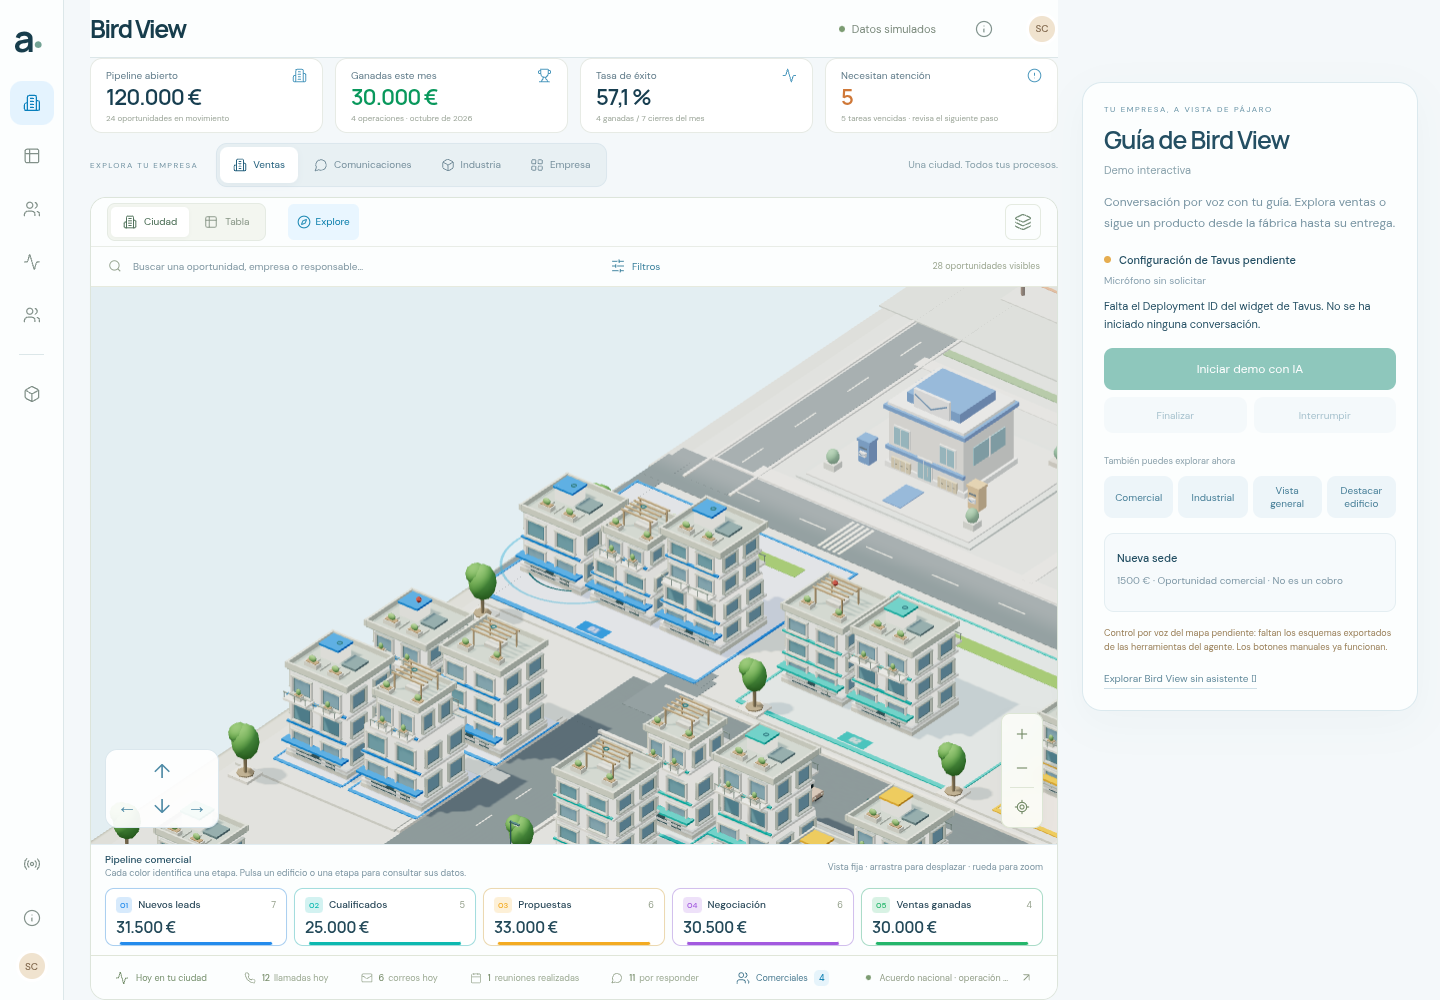
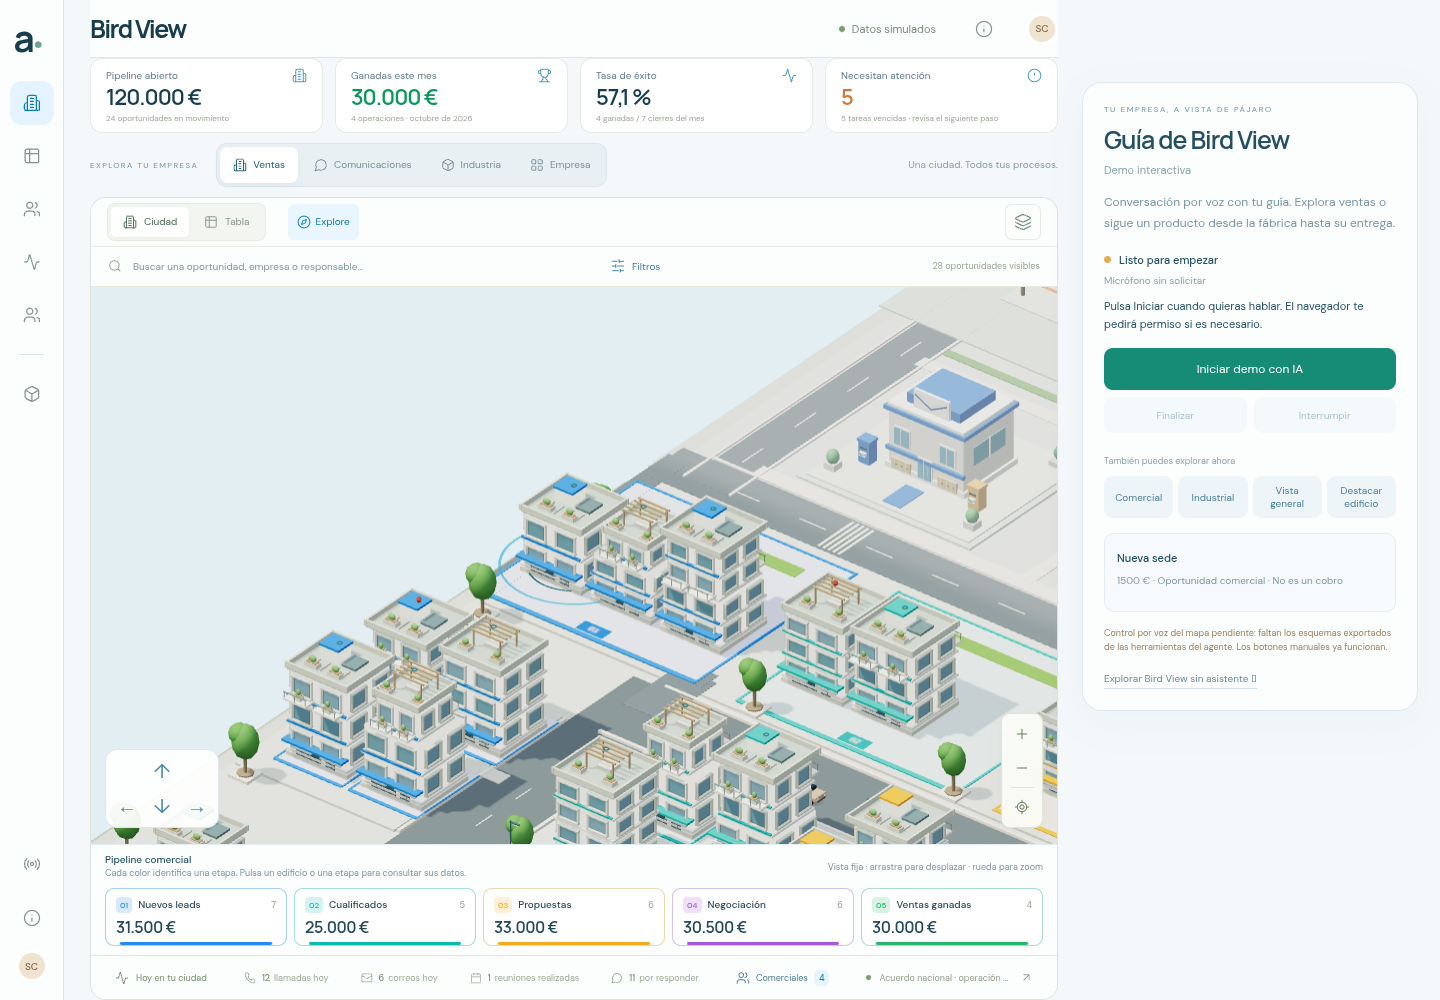
Configure the supplied Tavus deployment for production

Changed region(s): [[0.75, 0.248, 0.9688, 0.403]]

diff --git a/docs/demo/VALIDATION.md b/docs/demo/VALIDATION.md
@@ -1,8 +1,8 @@
 # Bird View · Demo Tavus
 
-Se completaron **195 pruebas automáticas** y **6 grupos de navegador** en la compilación final. La página `/demo` presenta la ciudad real y sus controles manuales. La conversación de Tavus sigue pendiente de un Deployment ID verificado y de los esquemas de las herramientas del agente existente.
+Se completaron **195 pruebas automáticas** y **6 grupos de navegador** en la compilación final. La página `/demo` presenta la ciudad real y sus controles manuales, con el Deployment ID público facilitado por el usuario ya configurado y el botón de inicio habilitado. Esta ejecución no inicia una conversación. Los esquemas de las herramientas del agente siguen pendientes.
 
-![Demo de Bird View sin conversación iniciada](captures/demo-desktop-unconfigured.png)
+![Demo de Bird View sin conversación iniciada](captures/demo-desktop-ready.png)
 
 ## Navegador
 
@@ -10,16 +10,16 @@ Se utilizó Chromium **154.0.8037.57**, en 1440 × 1000 y con móvil emulado de 
 
 Los seis grupos pasaron con **cero errores JavaScript no capturados**:
 
-1. Acceso directo por HTTP a `/demo`, con ciudad renderizada, aviso de configuración pendiente y controles de inicio, finalización e interrupción deshabilitados. No aparece una conexión ni un avatar ficticios.
+1. Acceso directo por HTTP a `/demo`, con ciudad renderizada, estado «Listo para empezar» e **Iniciar demo con IA** habilitado. Finalizar e Interrumpir permanecen deshabilitados; la sesión está en `idle` y el micrófono sin solicitar. El bundle recibido por HTTP contiene el Deployment ID público esperado. No se pulsa Iniciar ni aparece una conexión o avatar ficticios.
 2. Botón **Comercial**: encuadre real de `deal-001`, «Nueva sede», y halo visible. El panel muestra sus 1.500 € como oportunidad comercial y aclara que no es un cobro.
 3. Botón **Industrial**: encuadre y halo de fabricación. Las 1.320 unidades trazadas se mantienen; la interfaz identifica la ruta como estimada.
 4. Botón **Vista general**: regreso a toda la empresa. Los componentes del cuaternión de cámara conservan su orientación dentro de `0,00001` durante los tres encuadres.
 5. Ruta principal `/`: conserva el asistente V5 visible y la navegación a comunicaciones. No carga el módulo de la demo ni los SDK Tavus, no registra sus componentes y no solicita la configuración Tavus. Es una comprobación dirigida de regresión; no se repitió aquí toda la suite V5.
-6. Móvil de 390 px: guía y controles dentro del ancho disponible, sin desplazamiento horizontal; botón de inicio de 44 px de altura. El encuadre industrial funciona y el mapa completo puede verse mediante desplazamiento vertical.
+6. Móvil de 390 px: guía y controles dentro del ancho disponible, sin desplazamiento horizontal; botón de inicio habilitado y de 44 px de altura. El encuadre industrial funciona y el mapa completo puede verse mediante desplazamiento vertical.
 
 En cada navegación se comparan las instantáneas serializadas del CRM y de la industria: **no cambian los registros**. Los botones manuales actúan sobre el controlador de presentación, no se atribuyen a una conversación de IA.
 
-La suite instrumenta `getUserMedia`, `HTMLMediaElement.play` y la creación de `AudioContext`: las tres cuentas quedan a cero. No se monta ningún `tavus-widget` ni `tavus-embed`, no aparecen elementos de audio/vídeo y no se realizan peticiones a `tavusapi.com`, `tavus.io`, `tavus.com`, `tavus.dev` ni `daily.co`, incluidos sus subdominios. En `/demo` sí se importan los SDK oficiales y se registran ambos componentes, conforme a su instalación; registrar el componente no inicia una conversación. La ruta `/` no los registra ni descarga `app-W4suTnxR.js`, el módulo que los contiene.
+La suite instrumenta `getUserMedia`, `HTMLMediaElement.play` y la creación de `AudioContext`: las tres cuentas quedan a cero. No se monta ningún `tavus-widget` ni `tavus-embed`, no aparecen elementos de audio/vídeo y no se realizan peticiones a `tavusapi.com`, `tavus.io`, `tavus.com`, `tavus.dev` ni `daily.co`, incluidos sus subdominios. En `/demo` sí se importan los SDK oficiales y se registran ambos componentes, conforme a su instalación; registrar el componente no inicia una conversación. La ruta `/` no los registra ni descarga `app-ytn8nZM7.js`, el módulo que los contiene.
 
 ![Encuadre comercial y halo sobre la oportunidad](captures/demo-commercial-readonly-highlight.png)
 
@@ -27,21 +27,21 @@ La suite instrumenta `getUserMedia`, `HTMLMediaElement.play` y la creación de `
 
 La revisión inicial encontró un botón móvil de 42 px y un halo industrial oculto por la plataforma de la fábrica. Se corrigieron el tamaño táctil, la composición móvil y el perímetro/altura del halo antes de repetir los seis grupos completos. No se cuentan los intentos iniciales incompletos como grupos adicionales.
 
-[Móvil: guía y controles](captures/demo-mobile-unconfigured-industry.png) · [Móvil: mapa tras desplazarse](captures/demo-mobile-industrial-city.png) · [Ruta principal conservada](captures/normal-city-v5-preserved.png).
+[Móvil: guía y controles](captures/demo-mobile-ready-industry.png) · [Móvil: mapa tras desplazarse](captures/demo-mobile-industrial-city.png) · [Ruta principal conservada](captures/normal-city-v5-preserved.png).
 
-[Informe de navegador](browser-validation.json). Conserva los SHA-256 de los módulos JS y CSS realmente recibidos por HTTP, incluidos `app-W4suTnxR.js`, `app-IKnRg8DU.js` y `app-DMQpJPKC.css`. Los hashes de todas las fuentes incluidas coinciden al comenzar y terminar la ejecución final. Todos los assets registrados respondieron con HTTP 200.
+[Informe de navegador](browser-validation.json). Conserva los SHA-256 de los módulos JS y CSS realmente recibidos por HTTP, incluidos `app-ytn8nZM7.js`, `app-IKnRg8DU.js` y `app-DMQpJPKC.css`. Los hashes de todas las fuentes incluidas coinciden al comenzar y terminar la ejecución final, incluida `.env.production`; `.env.local` no se incluye en los hashes ni en el informe. Todos los assets registrados respondieron con HTTP 200. El informe registra el ID público esperado, comprueba su presencia en el bundle servido y deja constancia de `startButtonClicked: false`.
 
 ## Modelos, contratos y sesión
 
-`npm test` pasó **195/195 pruebas**, y la compilación de producción terminó correctamente. Incluye 12 pruebas nuevas del controlador de presentación, 18 de contratos/API y 18 del ciclo de sesión.
+`npm test` pasó sus 20 archivos, y la compilación de producción terminó correctamente. Se ejecutaron además los mismos archivos con `node --test --test-isolation=none`, que enumeró **195/195 casos**, sin fallos ni casos omitidos. Incluyen 12 pruebas del controlador de presentación, 18 de contratos/API y 18 del ciclo de sesión.
 
 Las pruebas del controlador verifican IDs existentes, cola acotada, serialización, cancelación, prioridad a la navegación manual, restauración y ausencia de escrituras CRM/ERP. Las de contratos validan esquemas, bindings explícitos, argumentos y límites; sus esquemas son **fixtures sintéticos de prueba**, no los del agente del usuario. Las de sesión usan un widget controlado para comprobar inicio, estado, errores, deduplicación de herramientas, interrupción y limpieza. No acreditan el comportamiento de un deployment real.
 
-La configuración del handler `/api/tavus-config` se comprueba con respuestas y variables de entorno controladas, incluida la ausencia de credenciales en su salida. El servidor estático `vite preview` de esta ejecución no ejecuta las funciones serverless: la página obtiene HTML de fallback en esa ruta, detecta que no es configuración JSON y conserva el estado pendiente. No se ha validado el endpoint publicado de Vercel desde el navegador.
+La configuración del handler `/api/tavus-config` se comprueba con respuestas y variables de entorno controladas, incluida la ausencia de credenciales en su salida. También se invocó el handler local con `--env-file=.env.local`: devolvió GET 200, el ID público exacto y contratos pendientes. El servidor estático `vite preview` de esta ejecución no ejecuta las funciones serverless: la página obtiene HTML de fallback en esa ruta, detecta que no es configuración JSON y utiliza el ID público compilado desde `.env.production`. No se ha validado el endpoint publicado de Vercel desde el navegador.
 
 ## Pendiente de conexión real
 
-No se ha proporcionado un Deployment ID verificado ni la exportación de las tres herramientas del agente existente. El PAL ID facilitado por el usuario no se considera una prueba de publicación del widget.
+El usuario proporcionó el snippet del widget con Deployment ID `d7770b89-ab37-4445-b065-2a5150e2e4cb`. La comprobación pública de `/init` devolvió HTTP 200, «Guía de Bird View Widget» e `is_available: true`; confirma la disponibilidad de la publicación, no una conversación ni sus dominios permitidos. La exportación de las tres herramientas del agente existente sigue pendiente; véase [configuración y lectura pública del deployment](SETUP.md).
 
 No se han verificado una conversación real, audio bidireccional, saludo, interrupciones de voz, permisos en un dispositivo físico ni llamadas reales de herramientas del agente. Las capturas no contienen un avatar, voz o conexión simulados. Los controles por voz seguirán pendientes hasta revisar los esquemas reales; véase [contratos de herramientas](TOOL_CONTRACTS.md).
 
@@ -59,4 +59,10 @@ En otra terminal, con una única sesión de navegador:
 npm run test:demo
 ```
 
-`BASE_URL`, `CHROMIUM_PATH` y `CAPTURE_DIR` permiten cambiar el servidor, Chromium y el destino de las evidencias. La comprobación de configuración ausente requiere ejecutar la compilación sin `VITE_TAVUS_DEPLOYMENT_ID` ni un Deployment ID disponible en el servidor. No se debe utilizar esta suite para iniciar una llamada de pago en un deployment configurado.
+`BASE_URL`, `CHROMIUM_PATH` y `CAPTURE_DIR` permiten cambiar el servidor, Chromium y el destino de las evidencias. Por defecto, la suite resuelve el ID público esperado con `loadEnv("production", process.cwd(), "VITE_")`. `EXPECT_TAVUS_DEPLOYMENT_ID` permite sustituirlo; una cadena explícitamente vacía selecciona las comprobaciones de configuración ausente. Para ese modo hay que servir una compilación sin ID y un servidor que tampoco lo publique. La suite nunca pulsa Iniciar ni crea automáticamente una conversación.
+
+```sh
+# Sólo para comprobar una compilación sin configuración:
+VITE_TAVUS_DEPLOYMENT_ID='' npm run build
+EXPECT_TAVUS_DEPLOYMENT_ID='' npm run test:demo
+```

diff --git a/docs/demo/SETUP.md b/docs/demo/SETUP.md
@@ -10,9 +10,11 @@ En [PAL Maker](https://maker.tavus.io/dev), abre la sección de deployments y lo
 <tavus-widget deployment-id="VALOR_DEL_SNIPPET"></tavus-widget>
 ```
 
-El usuario facilitó el **PAL ID `p5695fb057e5`**. Se conserva como referencia; no se convierte automáticamente en un deployment. El intento de comprobarlo con una lectura pública de `/v2/deployments/:id/init` fue bloqueado por el proxy de este entorno con 403 antes de llegar a Tavus. Eso no demuestra que el ID sea válido ni inválido. No se ha creado otro PAL ni una conversación de prueba.
+El usuario facilitó el **PAL ID `p5695fb057e5`** y, después, el snippet oficial con **Deployment ID `d7770b89-ab37-4445-b065-2a5150e2e4cb`**. Este último está configurado en `.env.production` como `VITE_TAVUS_DEPLOYMENT_ID`, por lo que la compilación de producción ya lo utiliza sin copiarlo manualmente en Vercel. Una variable de compilación definida en Vercel tiene prioridad sobre ese valor.
 
-En Vercel → Settings → Environment Variables:
+La lectura pública de `/v2/deployments/d7770b89-ab37-4445-b065-2a5150e2e4cb/init` respondió HTTP 200, con nombre «Guía de Bird View Widget», canal `widget` e `is_available: true`. Esto confirma la publicación; no prueba una conversación ni los dominios permitidos de la web final. La respuesta no incluye esquemas de herramientas. No se ha creado otro PAL ni una conversación de prueba.
+
+Para sobrescribir el ID público o completar las herramientas, usa Vercel → Settings → Environment Variables:
 
 | Variable                    | Uso                                                                                                              |
 | --------------------------- | ---------------------------------------------------------------------------------------------------------------- |
@@ -52,7 +54,9 @@ npm run preview -- --port 4173 --strictPort
 npm run test:demo
 ```
 
-Vite preview sirve el cliente, no las funciones `/api/*`. Sin variables de compilación, muestra correctamente el estado de configuración pendiente. Vercel ejecuta la función de configuración del servidor. Los tests Node prueban esa API y el puente sin credenciales.
+Vite preview sirve el cliente, no las funciones `/api/*`. La compilación usa el ID público de `.env.production`; el frontend también lo conserva como alternativa cuando la API no devuelve un ID. La API de Vercel sólo informa de las variables disponibles en su proceso, por lo que puede devolver `configured: false` si no se han añadido variables de servidor aunque el cliente tenga el ID compilado. Los tests Node prueban esa API y el puente sin credenciales.
+
+Para desarrollo, copia `.env.example` a `.env.local` si todavía no existe. El archivo local está ignorado por Git y ya se ha preparado en esta máquina. No incluyas claves privadas en variables con prefijo `VITE_`.
 
 Se verifican serialización de movimientos, cancelación al navegar manualmente, restauración de la vista y limpieza de listeners. La copia de protocolo `conversation.tool_call` no vuelve a ejecutar el evento `tavus:tool-call`. Sólo se devuelve `conversation.tool_result` cuando existe un ID de correlación real.
 
@@ -63,5 +67,7 @@ Resultados y límites de las pruebas: [VALIDATION.md](VALIDATION.md).
 ## Entorno de Codex
 
 El borrador de configuración guarda las instrucciones de instalación/arranque, los requisitos de variables públicas y los dominios de Tavus/Daily necesarios: `tavusapi.com`, `*.tavusapi.com`, `docs.tavus.io`, `maker.tavus.io`, `*.tavus.io`, `*.daily.co` y `challenges.cloudflare.com`. Se conserva el preset de gestores de paquetes. No se ha añadido ninguna API key.
+
+El Deployment ID facilitado está guardado también como valor sugerido de `TAVUS_DEPLOYMENT_ID` y `VITE_TAVUS_DEPLOYMENT_ID`. Los esquemas originales siguen pendientes en `TAVUS_TOOL_CONTRACTS_JSON`.
 
 Guardar el borrador no aplica cambios a esta máquina ni publica el entorno. Para usarlos en tareas futuras, revisa y guarda la configuración en los ajustes del entorno y después publica el entorno. La publicación de la web en Vercel es un proceso distinto.

diff --git a/README.md b/README.md
@@ -20,7 +20,7 @@ npm run preview -- --port 4173
 
 **Vercel:** preset **Vite**, directorio raíz `./`, build `npm run build`, salida `dist`. Todos los assets necesarios están incluidos. El push a `main` puede activar un despliegue si el proyecto Vercel está enlazado. El estado de Vercel no se verifica desde esta aplicación.
 
-**Demo comercial con Tavus:** entra en `/demo`. Reutiliza la ciudad y añade la Guía de Bird View con los SDK oficiales, controles manuales y un puente de herramientas de sólo visualización. Requiere el `deployment-id` del widget del agente existente y sus esquemas reales para controlar el mapa por voz. Si faltan, la página lo indica y conserva la exploración manual. [Configuración de Tavus](docs/demo/SETUP.md) · [Pruebas y capturas](docs/demo/VALIDATION.md).
+**Demo comercial con Tavus:** entra en `/demo`. Reutiliza la ciudad y añade la Guía de Bird View con los SDK oficiales, controles manuales y un puente de herramientas de sólo visualización. El Deployment ID del agente existente ya está configurado en `.env.production`. Para controlar el mapa por voz siguen pendientes sus esquemas reales; la página lo indica y conserva la exploración manual. [Configuración de Tavus](docs/demo/SETUP.md) · [Pruebas y capturas](docs/demo/VALIDATION.md).
 
 ## Qué explorar
 
